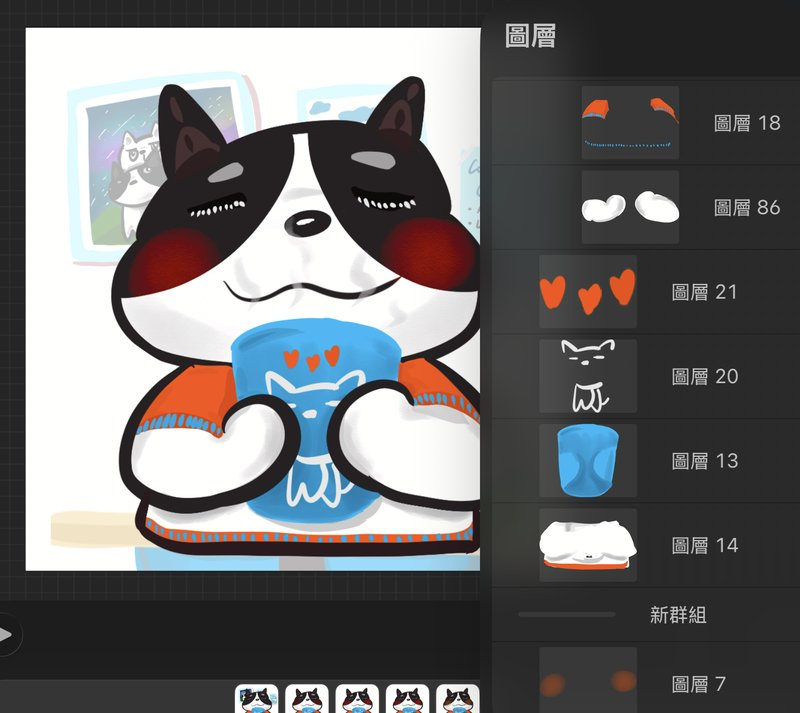
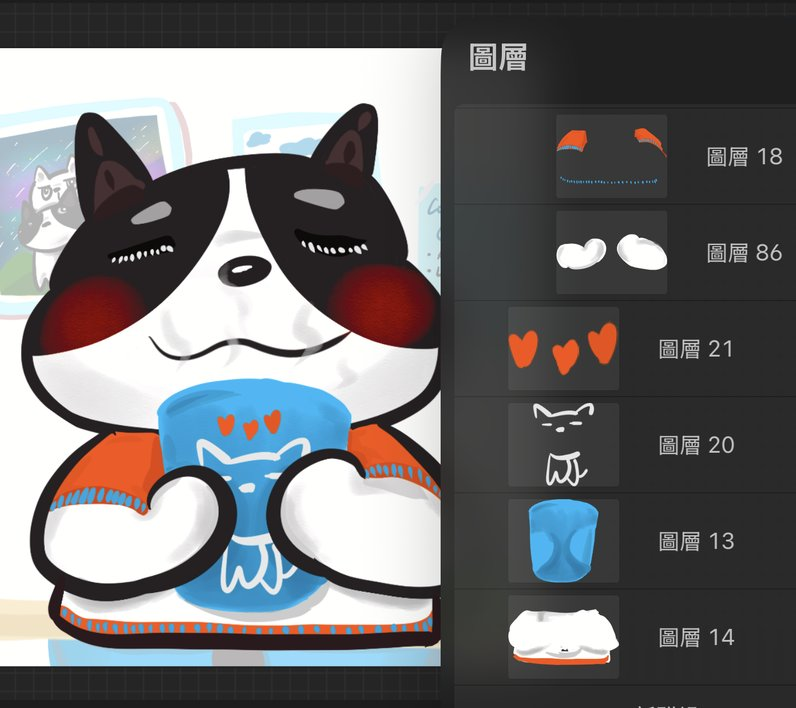
style: place Coucoubei scenes, GIF cards, making-of and stickers by the Figma frame

diff --git a/src/case-coucou.js b/src/case-coucou.js
@@ -131,15 +131,18 @@ const sections = [
     content: `
       ${lead('把日常小事，畫成一個個有溫度的場景。')}
       <div class="cc-grid cc-grid--3 cc-grid--scene">
-        ${cell({ src: `${img}/scenes-01.jpg`, alt: '場景插畫 1' })}
-        ${cell({ src: `${img}/scenes-02.jpg`, alt: '場景插畫 2' })}
-        ${cell({ src: `${img}/scenes-03.jpg`, alt: '場景插畫 3' })}
-        ${cell({ src: `${img}/scenes-04.jpg`, alt: '場景插畫 4' })}
-        ${cell({ src: `${img}/scenes-halloween.jpg`, alt: '場景插畫：萬聖節的兔子' })}
-        ${cell({ video: `${img}/gifs-anim-01.mp4`, alt: '場景插畫：戴泳鏡的狗狗' })}
-        ${cell({ src: `${img}/scenes-05.jpg`, alt: '場景插畫 5' })}
-        ${cell({ video: `${img}/gifs-anim-rainbow.mp4`, alt: '場景插畫：雨與虹' })}
-        ${cell({ src: `${img}/scenes-06.jpg`, alt: '場景插畫 6' })}
+        ${[
+          // crops follow the Figma masks (object-position x y)
+          [{ src: `${img}/scenes-01.jpg` }, '場景插畫 1', '50% 50%'],
+          [{ src: `${img}/scenes-02.jpg` }, '場景插畫 2', '100% 50%'],
+          [{ src: `${img}/scenes-03.jpg` }, '場景插畫 3', '50% 70%'],
+          [{ src: `${img}/scenes-04.jpg` }, '場景插畫 4', '50% 0%'],
+          [{ src: `${img}/scenes-halloween.jpg` }, '場景插畫：萬聖節的兔子', '50% 79%'],
+          [{ video: `${img}/gifs-anim-01.mp4` }, '場景插畫：戴泳鏡的狗狗', '50% 39%'],
+          [{ src: `${img}/scenes-05.jpg` }, '場景插畫 5', '35% 50%'],
+          [{ src: `${img}/scenes-cat-frog-hat.jpg` }, '場景插畫：戴青蛙帽的賓賓', '50% 69%'],
+          [{ src: `${img}/scenes-06.jpg` }, '場景插畫 6', '50% 79%'],
+        ].map(([media, alt, pos]) => cell({ ...media, alt }).replace(/<(img|video) /, `<$1 style="object-position:${pos}" `).replace(' style="object-fit:cover"', '')).join('')}
       </div>
     `,
   },
@@ -150,7 +153,7 @@ const sections = [
       <div class="cc-grid cc-grid--3 cc-grid--captioned cc-grid--gifs">
         ${cell({ src: `${img}/gifs-card-frame-by-frame.jpg`, alt: '在 Procreate 用圖層畫逐格動畫', caption: '逐格動畫' })}
         ${cell({ src: `${img}/gifs-card-scene.jpg`, alt: '賓賓在咖啡店的場景插畫', caption: '場景插畫' })}
-        ${cell({ src: `${img}/gifs-sticker-02.gif`, alt: '賓賓捧著咖啡杯的 GIF 貼圖', caption: 'GIF&貼圖' })}
+        ${cell({ src: `${img}/gifs-sticker-02.gif`, alt: '賓賓捧著咖啡杯的 GIF 貼圖', caption: 'GIF&貼圖' }).replace('object-fit:cover', 'object-fit:cover;object-position:50% 38%')}
       </div>
       ${caseLabel('製作過程 MAKING OF')}
       <figure class="cc-making">
@@ -161,17 +164,19 @@ const sections = [
       </figure>
       <div class="cc-grid cc-grid--5 cc-grid--sticker">
         ${[
-          ['gifs-sticker-rabbit-carrot.gif', '咬紅蘿蔔的兔子'],
-          ['gifs-sticker-shiba.gif', '柴犬'],
-          ['gifs-sticker-bunny-orange.gif', '穿橘衣的兔兔'],
-          ['gifs-sticker-01.gif', '戴兔子帽的狗狗'],
-          ['gifs-sticker-bunny-starry.gif', '星空斗篷的兔兔'],
-          ['gifs-sticker-cat-crying.png', '哭哭的賓賓'],
-          ['gifs-sticker-02.gif', '捧咖啡杯的賓賓'],
-          ['shift-character-chouchou-doudou.gif', '兔兔與狗狗'],
-          ['gifs-sticker-dog-lying.png', '趴著的狗狗'],
-          ['gifs-sticker-pug-goggles.gif', '戴泳鏡的狗狗'],
-        ].map(([f, t]) => cell({ src: `${img}/${f}`, alt: `貼圖：${t}`, fit: 'contain' })).join('')}
+          // [file, name, left, top, width] — each sticker's place in its tile, from Figma (% of the tile)
+          ['gifs-sticker-rabbit-carrot.gif', '咬紅蘿蔔的兔子', 0, 0, 100],
+          ['gifs-sticker-shiba.gif', '柴犬', 8.3, 12.9, 81.7],
+          ['gifs-sticker-bunny-orange.gif', '穿橘衣的兔兔', 6.1, 9.4, 88.7],
+          ['gifs-sticker-01.gif', '戴兔子帽的狗狗', 0, 0, 100],
+          ['gifs-sticker-bunny-starry.gif', '星空斗篷的兔兔', 5.2, 11.1, 87.8],
+          ['gifs-sticker-cat-crying.png', '哭哭的賓賓', 0, 8.9, 91.3],
+          ['gifs-sticker-02.gif', '捧咖啡杯的賓賓', 7.4, 15, 85.2],
+          ['shift-character-chouchou-doudou.gif', '兔兔與狗狗', 0, 1.1, 99],
+          ['gifs-sticker-dog-lying.png', '趴著的狗狗', 0, 2, 101.7],
+          ['gifs-sticker-pug-goggles.gif', '戴泳鏡的狗狗', 0.9, -1.5, 98.3],
+        ].map(([f, t, x, y, w]) => `
+          <figure class="cc-cell"><div class="cc-cell-frame"><img src="${img}/${f}" alt="貼圖：${t}" loading="lazy" style="left:${x}%;top:${y}%;width:${w}%" /></div></figure>`).join('')}
       </div>
       <div class="cc-stats">
         <p><span>上傳數量</span><b>31</b></p>

diff --git a/src/case-coucou.css b/src/case-coucou.css
@@ -50,16 +50,21 @@
 .cc-stage + .cc-grid { margin-top: var(--space-2); } /* landscape paintings, three across the 603 text column */
 .cc-grid--square .cc-cell-frame { aspect-ratio: 1; }
 .cc-grid--sticker .cc-cell-frame { aspect-ratio: 1; border: 1px solid var(--color-border-default); background: var(--color-bg-default); }
+.cc-grid--sticker .cc-cell-frame { position: relative; }
+.cc-grid--sticker .cc-cell-frame img { position: absolute; height: auto; } /* placed per sticker, see case-coucou.js */
+.cc-grid--5.cc-grid--sticker { gap: 4.5px; margin-inline: 4px 6px; } /* Figma: 115 tiles, 4.5 apart */
+.cc-grid--scene:not(.cc-grid--captioned), .cc-grid--gifs { gap: 3px; } /* Figma: 199-wide cells, 3 apart */
 .cc-grid--captioned .cc-cell { overflow: hidden; border-radius: var(--radius-photo); background: var(--color-bg-surface); }
 .cc-grid--captioned .cc-cell-frame { border-radius: 0; aspect-ratio: 199 / 231; }
 .cc-grid--captioned.cc-grid--scene .cc-cell-frame { aspect-ratio: 199 / 162; }
-.cc-grid--captioned.cc-grid--gifs .cc-cell-frame { aspect-ratio: 333 / 297; } /* GIFs section cards, from the Figma mock */
+.cc-grid--captioned.cc-grid--gifs .cc-cell-frame { aspect-ratio: 199 / 177; } /* GIFs section cards, from Figma */
+.cc-grid--gifs figcaption { padding-block: 7px 8px; } /* 28px label band */
 /* Making-of: five hand-drawn frames on a grey band, caption below */
 .cc-making { margin: var(--space-3) 0 0; overflow: hidden; border-radius: 0 0 var(--radius-photo) var(--radius-photo); background: var(--color-bg-surface); }
-.cc-making-strip { display: grid; grid-template-columns: repeat(5, 1fr); gap: var(--space-3); padding: var(--space-3); background: #1F1F1F; }
+.cc-making-strip { display: grid; grid-template-columns: repeat(5, 1fr); gap: 16px; padding: 16px 15px 14px; background: #1F1F1F; } /* Figma: 102 frames in a 131 band */
 .cc-making-strip img { display: block; width: 100%; aspect-ratio: 1; object-fit: cover; border-radius: var(--radius-photo); }
-.cc-making + .cc-grid { margin-top: var(--space-4); }
-.cc-making figcaption { padding: var(--space-2) var(--space-5); color: var(--color-text-secondary); font: var(--weight-medium) var(--text-caption) / 1.25 var(--font-body); }
+.cc-making + .cc-grid { margin-top: 35px; }
+.cc-making figcaption { padding: 10px 24px 11px; color: var(--color-text-secondary); font: var(--weight-medium) var(--text-caption) / 1.25 var(--font-body); }
 .cc-cell figcaption {
   padding: 6px 8px; text-align: center;
   color: var(--color-text-secondary);
